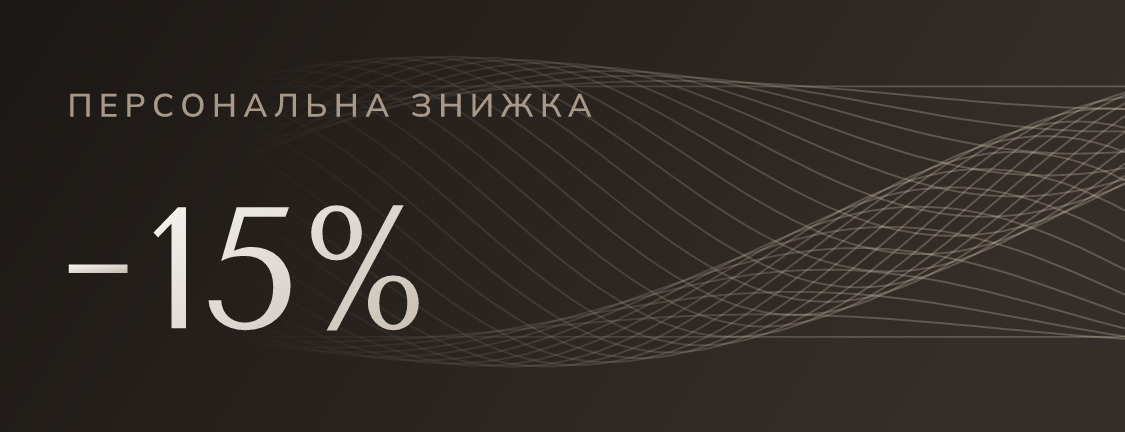
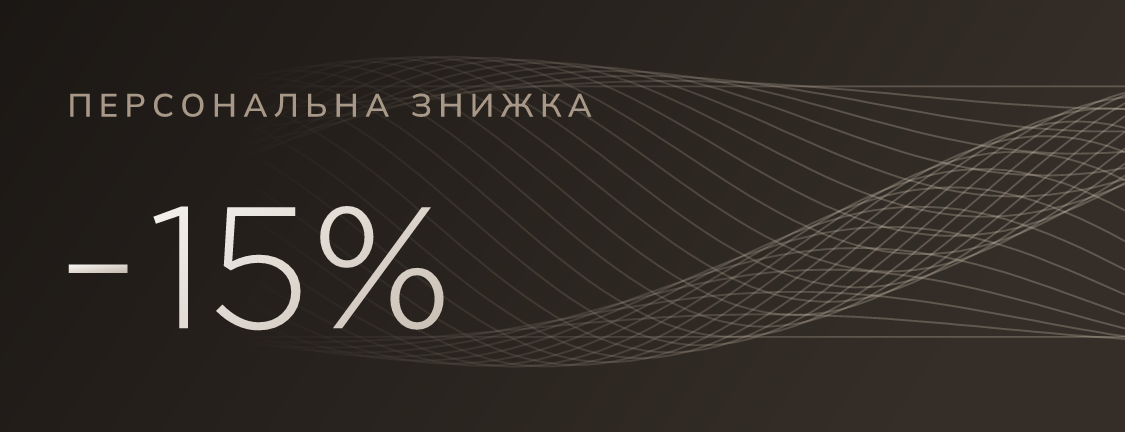
feat(loyalty): Gotham Light for the discount number on card artwork

Changed region(s): [[0.1244, 0.4514, 0.4044, 0.7824]]

diff --git a/src/lib/loyalty/art.ts b/src/lib/loyalty/art.ts
@@ -10,10 +10,9 @@ export interface ArtOptions {
 /**
  * Wallet strip / hero artwork: fine wave lines overlapping into a guilloche-style
  * moire, faded in from the right. Port of the approved preview's `art()` (no holder name).
- * Text is live SVG text: the renderer must provide Mulish SemiBold and Tenor Sans.
- * Tenor Sans has no U+2212 minus glyph and resvg then drops the whole run to the fallback
- * font (a tspan does not help either), so the minus is drawn as a rect; the accessible
- * label carries the real "−N%" text.
+ * Text is live SVG text: the renderer must provide Mulish SemiBold (label) and Gotham Light (number).
+ * The minus is drawn as a rect because a U+2212 missing from the number font makes resvg drop the
+ * whole run to the fallback font; the accessible label carries the real "−N%" text.
  */
 export function artSvg({ tier, width: w, height: h }: ArtOptions): string {
   const t = TIER_STYLE[tier];
@@ -44,6 +43,6 @@ export function artSvg({ tier, width: w, height: h }: ArtOptions): string {
 <g mask="url(#m)" fill="none" stroke="${t.line}" stroke-opacity="${t.lineOpacity}" stroke-width="${(h / 230).toFixed(2)}">${paths}</g>
 <text x="${w * 0.06}" y="${h * 0.27}" font-family="Mulish, sans-serif" font-weight="600" font-size="${h * 0.075}" letter-spacing="${h * 0.015}" fill="${t.label}">ПЕРСОНАЛЬНА ЗНИЖКА</text>
 <rect x="${w * 0.055 + size * 0.04}" y="${h * 0.76 - size * 0.37}" width="${size * 0.34}" height="${size * 0.05}" fill="url(#num)"/>
-<text x="${w * 0.055 + size * 0.5}" y="${h * 0.76}" font-family="'Tenor Sans', Georgia, serif" font-size="${size}" fill="url(#num)">${tier}%</text>
+<text x="${w * 0.055 + size * 0.5}" y="${h * 0.76}" font-family="Gotham, Georgia, serif" font-size="${size}" fill="url(#num)">${tier}%</text>
 </svg>`;
 }

diff --git a/src/lib/loyalty/art.test.ts b/src/lib/loyalty/art.test.ts
@@ -8,7 +8,7 @@ describe("artSvg", () => {
     expect(svg).toContain(">10%</text>");
     expect(svg).toContain("ПЕРСОНАЛЬНА ЗНИЖКА");
     expect(svg).toContain('viewBox="0 0 375 144"');
-    expect(svg).toContain("Tenor Sans");
+    expect(svg).toContain("Gotham");
     expect(svg).toContain("Mulish");
   });
   it("renders tier 15 with its gradient", () => {
@@ -22,7 +22,7 @@ describe("artSvg", () => {
     expect(artSvg({ tier: 10, width: 375, height: 144 })).toBe(a);
     expect(artSvg.length).toBe(1);
     expect(a.match(/<text /g)).toHaveLength(2);
-    // mask rect + background rect + the drawn minus (Tenor Sans has no U+2212 glyph)
+    // mask rect + background rect + the drawn minus (drawn so a font without U+2212 cannot drop the run)
     expect(a.match(/<rect /g)).toHaveLength(3);
     expect(a).toMatch(/<rect [^>]*fill="url\(#num\)"\/>/);
   });

diff --git a/scripts/generate-loyalty-assets.ts b/scripts/generate-loyalty-assets.ts
@@ -11,8 +11,10 @@ import { TIER_STYLE } from "../src/lib/loyalty/tiers";
 import type { Tier } from "../src/lib/loyalty/types";
 
 const root = path.resolve(__dirname, "..");
+// Gotham is a licensed font: it is not committed. Point GOTHAM_LIGHT_TTF at Gotham-Light.ttf
+// (default: the untracked "font 2" folder in the repo root).
 const fontFiles = [
-  path.join(root, "scripts/fonts/TenorSans-Regular.ttf"),
+  process.env.GOTHAM_LIGHT_TTF ?? path.join(root, "font 2/Gotham-Light.ttf"),
   path.join(root, "scripts/fonts/Mulish-SemiBold.ttf"),
 ];
 for (const f of fontFiles) readFileSync(f); // throws if missing

diff --git a/scripts/fonts/README.md b/scripts/fonts/README.md
@@ -9,3 +9,4 @@ Both are licensed under the SIL Open Font License 1.1 (https://openfontlicense.o
   Source: https://github.com/google/fonts/tree/main/ofl/mulish
   Static instance (wght=600) cut from the variable font `Mulish[wght].ttf` with
   `fonttools varLib.instancer "Mulish[wght].ttf" wght=600`, because resvg cannot pick a weight from a variable font reliably.
+- Gotham Light (number in the strip art) is licensed and NOT in the repo: set GOTHAM_LIGHT_TTF or put it at `font 2/Gotham-Light.ttf`.
